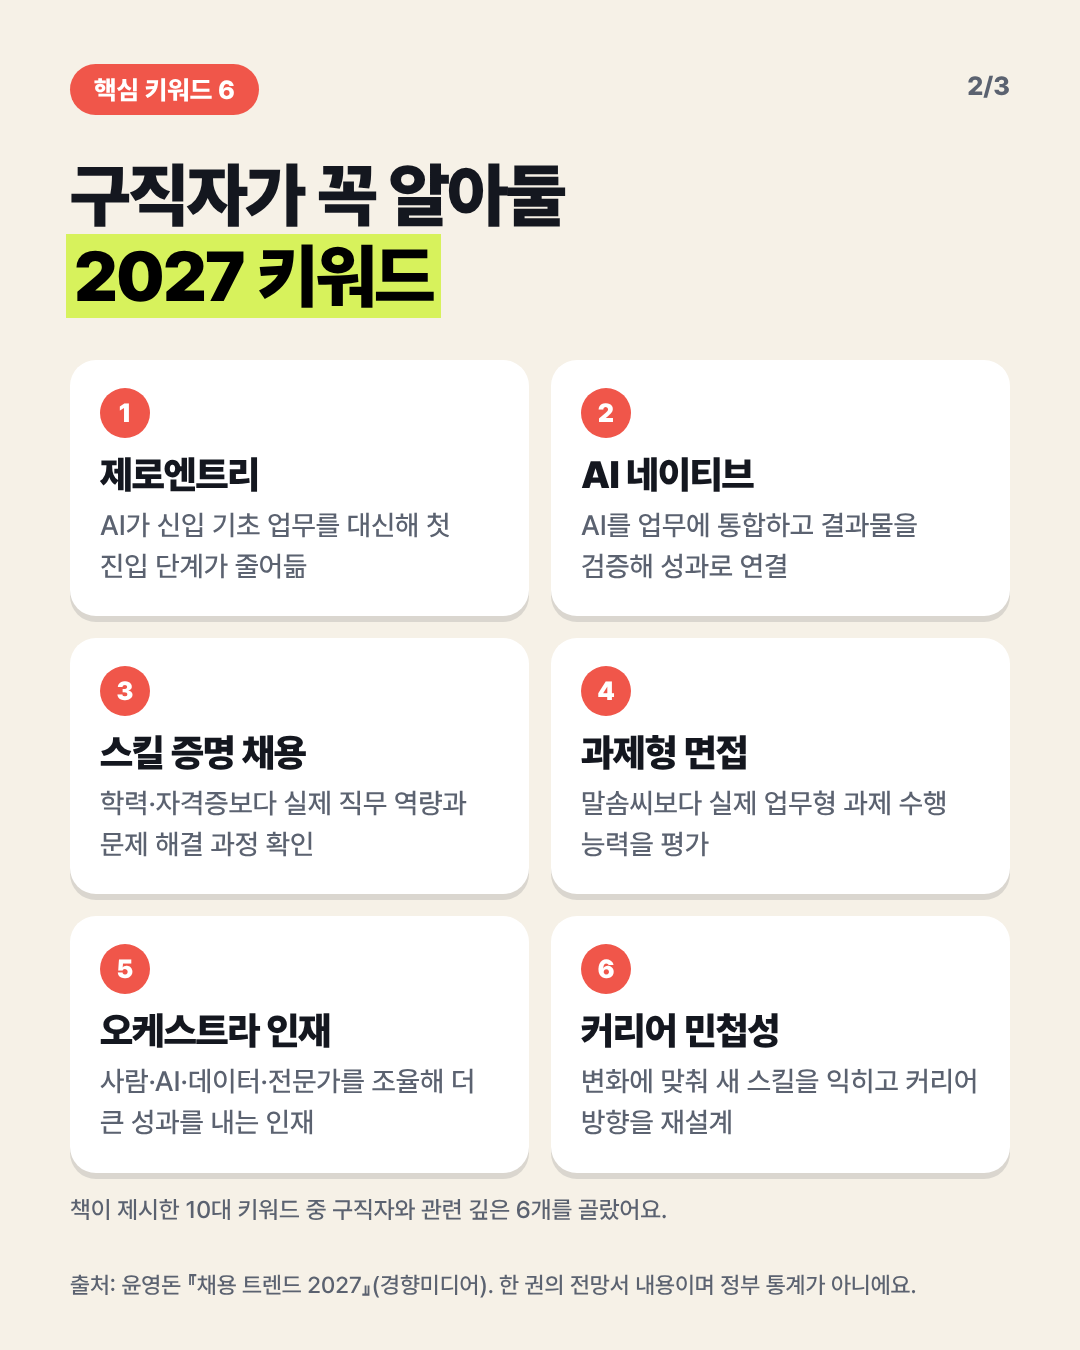
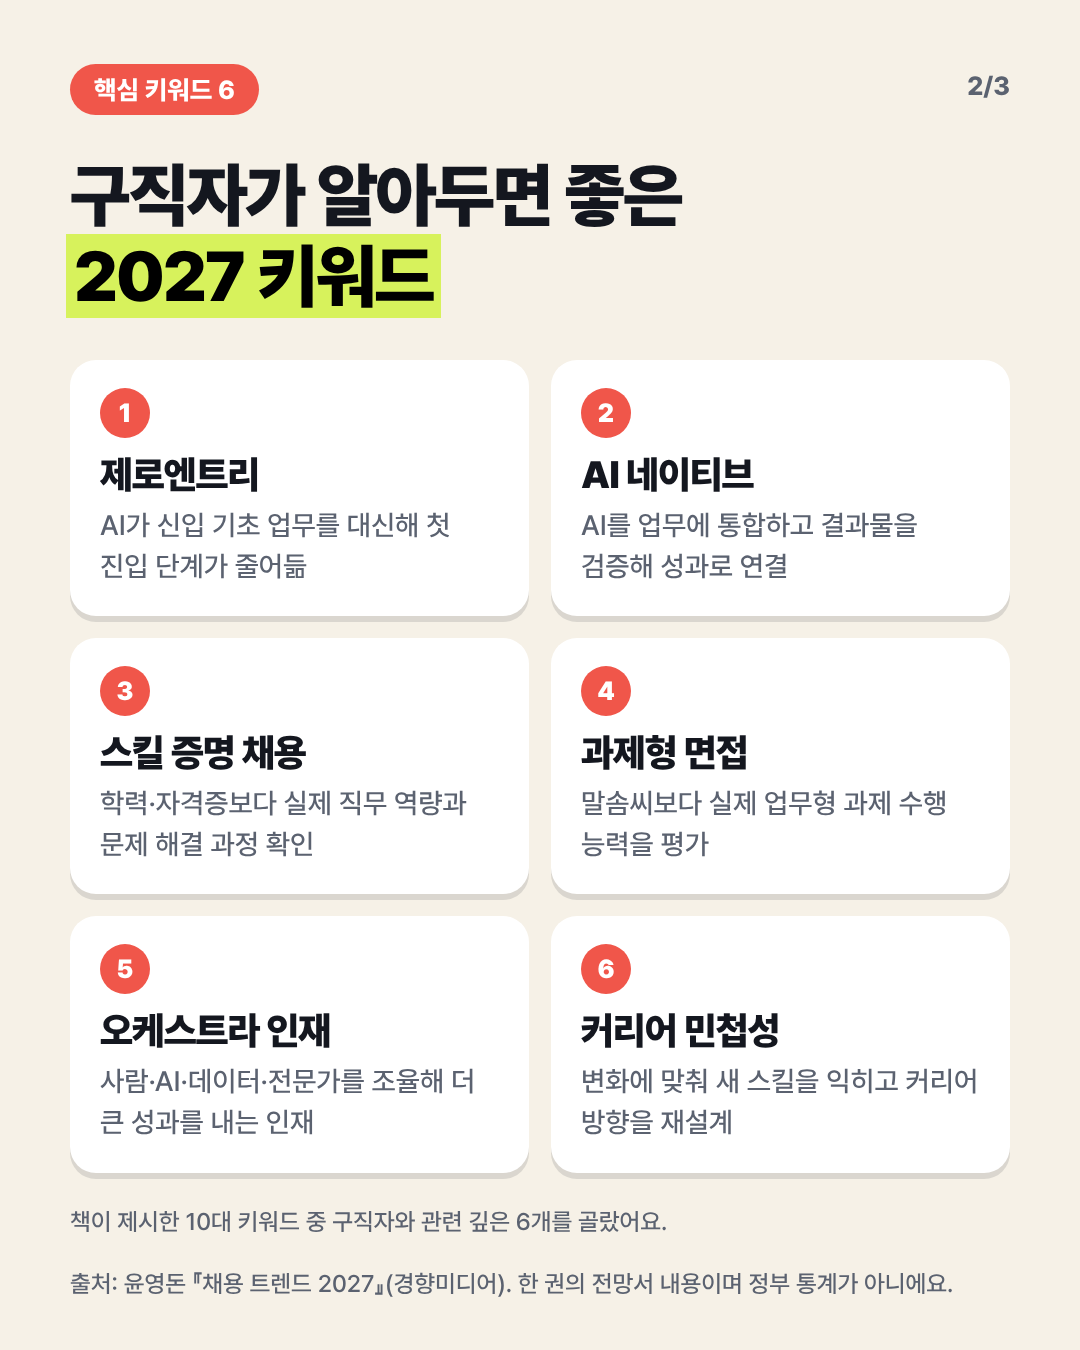
카드뉴스 검수 반영: 출처 귀속·코치 해석 표시·문구 보완
Claude-Session: https://claude.ai/code/session_01HCQhJp9fK9QrXzRY9SMg4y

Changed region(s): [[0.0611, 0.8711, 0.8861, 0.9644], [0.275, 0.1244, 0.6417, 0.1867]]

diff --git a/office/20261119_채용트렌드2027_카드뉴스/cards.html b/office/20261119_채용트렌드2027_카드뉴스/cards.html
@@ -24,7 +24,7 @@ h2 mark{background:var(--lime);padding:0 8px;margin:0 -4px}
 .lead{font-size:38px;line-height:1.5;font-weight:500;margin-top:56px;color:#d9dce3}
 .lead b{color:var(--lime);font-weight:800}
 .box{margin-top:60px;border:3px solid var(--lime);border-radius:28px;padding:34px 40px;font-size:34px;line-height:1.5;font-weight:700}
-.box small{display:block;font-size:26px;color:#9aa0ab;font-weight:500;margin-top:10px}
+.box small{display:block;font-size:27px;color:#c9cdd6;font-weight:500;margin-top:10px}
 .grid{display:grid;grid-template-columns:1fr 1fr;gap:22px;margin-top:44px}
 .k{background:#fff;border-radius:26px;padding:28px 30px 30px;box-shadow:0 6px 0 rgba(20,23,31,.12)}
 .k i{font-style:normal;display:inline-block;width:50px;height:50px;line-height:50px;text-align:center;border-radius:50%;background:var(--coral);color:#fff;font-weight:900;font-size:26px}
@@ -36,23 +36,23 @@ h2 mark{background:var(--lime);padding:0 8px;margin:0 -4px}
 .step p{font-size:30px;line-height:1.45;color:var(--sub);margin-top:8px;font-weight:500}
 .cta{margin-top:40px;background:var(--coral);color:#fff;border-radius:28px;padding:30px 36px;font-weight:900;font-size:42px;line-height:1.3}
 .cta small{display:block;font-size:28px;font-weight:700;margin-top:6px;opacity:.95}
-.foot{position:absolute;left:70px;right:70px;bottom:48px;font-size:23px;line-height:1.5;color:var(--sub);font-weight:500}
+.foot{position:absolute;left:70px;right:70px;bottom:48px;font-size:24px;line-height:1.5;color:var(--sub);font-weight:500}
 .dark .foot{color:#9aa0ab}
 .foot b{color:var(--ink);font-weight:800}.dark .foot b{color:#fff}
-.note{font-size:24px;color:var(--sub);margin-top:22px;font-weight:500}
+.note{font-size:24px;color:var(--sub);margin-top:34px;font-weight:500}
 </style></head><body>
 
 <section class="card dark" id="c1">
   <span class="lab">채용 트렌드 2027 요약</span><span class="pg">1/3</span>
   <h1>2027 채용은<br>'선발'이 아니라<br><em>'영입'</em>의 시대</h1>
   <p class="lead">AI 에이전트가 <b>신입의 기초 업무</b>를 대신하면서<br>경력의 <b>첫 계단이 사라지는</b> 현상,<br>'제로엔트리'가 핵심 화두예요.</p>
-  <div class="box">기업은 가능성만 보고 뽑아 키우기보다<br>즉시 성과를 낼 인재를 찾는 쪽으로 움직여요.<small>→ 구직자는 '조직이 영입하고 싶은 사람'임을 증명해야 합니다</small></div>
-  <div class="foot"><b>@career_catcher_ek</b> · 커리어캐쳐(CareerCatcher)<br>출처: 윤영돈 『채용 트렌드 2027』(경향미디어, 2026.10) 및 관련 기사</div>
+  <div class="box">책은 기업이 가능성만 보고 뽑아 키우기보다<br>즉시 성과를 낼 인재를 선호한다고 짚어요.<small>(코치 해석) 구직자는 '함께하고 싶은 사람'임을 보여 줄 준비가 필요해요</small></div>
+  <div class="foot"><b>@career_catcher_ek</b> · 커리어캐쳐(CareerCatcher)<br>출처: 윤영돈 『채용 트렌드 2027』(경향미디어, 2026.10.28) 소개 기사(ZDNet Korea, 한국사회복지저널)</div>
 </section>
 
 <section class="card" id="c2">
   <span class="lab">핵심 키워드 6</span><span class="pg">2/3</span>
-  <h2>구직자가 꼭 알아둘<br><mark>2027 키워드</mark></h2>
+  <h2>구직자가 알아두면 좋은<br><mark>2027 키워드</mark></h2>
   <div class="grid">
     <div class="k"><i>1</i><b>제로엔트리</b><p>AI가 신입 기초 업무를 대신해 첫 진입 단계가 줄어듦</p></div>
     <div class="k"><i>2</i><b>AI 네이티브</b><p>AI를 업무에 통합하고 결과물을 검증해 성과로 연결</p></div>
@@ -66,12 +66,12 @@ h2 mark{background:var(--lime);padding:0 8px;margin:0 -4px}
 </section>
 
 <section class="card pink" id="c3">
-  <span class="lab">그래서 이렇게 준비해요</span><span class="pg">3/3</span>
+  <span class="lab">코치의 준비 제안</span><span class="pg">3/3</span>
   <h2>지금 시작하는<br><mark>준비 3가지</mark></h2>
   <div class="step"><i>1</i><div><b>스펙 대신 '성과'를 정리</b><p>해낸 일과 결과를 경험노트로 모아 두세요</p></div></div>
-  <div class="step"><i>2</i><div><b>AI 쓴 과정을 말할 수 있게</b><p>어디에 썼고, 결과를 어떻게 검증했는지 설명해요</p></div></div>
+  <div class="step"><i>2</i><div><b>AI를 쓴 과정을 말할 수 있게</b><p>어디에 썼고, 결과를 어떻게 검증했는지 설명해요</p></div></div>
   <div class="step"><i>3</i><div><b>과제형 면접 대비</b><p>문제 → 과정 → 결정 순서로 말하는 연습을 해요</p></div></div>
   <div class="cta">저장해 두고 이력서 쓸 때 꺼내 보세요<small>@career_catcher_ek 팔로우 · 궁금한 점은 댓글로!</small></div>
-  <div class="foot">* 준비 3가지는 위 키워드를 바탕으로 한 커리어캐쳐 코치의 정리예요.<br>담당 안은경 | 커리어캐쳐(CareerCatcher)</div>
+  <div class="foot">* 책에 나온 내용이 아니라, 위 키워드를 바탕으로 한 커리어캐쳐 코치의 제안이에요.<br>담당 안은경 | 커리어캐쳐(CareerCatcher)</div>
 </section>
 </body></html>

diff --git a/office/20261119_채용트렌드2027_카드뉴스/review.md b/office/20261119_채용트렌드2027_카드뉴스/review.md
@@ -1,0 +1,68 @@
+# 검수 결과 (채용 트렌드 2027 카드뉴스 3장)
+
+**종합 판정: 수정 필요** (필수 수정 2건: 출처 대조 미완료, 1번 카드 코치 해석 미표시)
+
+## 검수 한계
+- 이 검수 환경에서는 웹 조회 도구를 쓸 수 없어 두 기사 원문과 카드 문구를 직접 대조하지 못했다. 저장소 안에도 기사 원문, 리서치 메모가 없다. 키워드 6개 정의, "10대 키워드", "선발 대신 영입"은 이 저장소에서 근거를 찾을 수 없다.
+- 그래서 사실 항목은 "기사와 다르다"고 단정하지 않고, 기사 대조가 필요한 문장과 위험도를 표시했다.
+- 이미지, 문장, 톤, 표기는 파일을 직접 열어 확인했다.
+
+## 항목별 판정표
+
+| # | 항목 | 판정 | 요약 |
+|---|---|---|---|
+| 1 | 사실·출처 대조 | 수정 필요 | 기사 대조 미완료, 1번 카드에 코치 해석이 책 주장처럼 섞임 |
+| 2 | 3번 카드 코치 해석 표시 | 수정 권장 | 표시는 있으나 하단 작은 각주뿐이라 눈에 잘 안 띔 |
+| 3 | 문장·맞춤법·톤·표기 | 수정 권장 | 해요체 중 한 문장이 합니다체, 어색한 조사 생략 |
+| 4 | 이미지(card1~3.png) | 통과 | 글자 잘림·겹침 없음, 가독성 양호. 작은 글씨만 주의 |
+
+## 1. 사실·출처 대조: 수정 필요
+
+| 위치 | 문구 | 판정 | 내용과 수정안 |
+|---|---|---|---|
+| 1번 카드 | "2027 채용은 '선발'이 아니라 '영입'의 시대" | [필수 수정] 확인 필요 | 기사에 '선발→영입' 표현이 있는지 확인해야 한다. 기사에 없으면 코치의 요약 카피다. 있으면 "책은 ~라고 짚어요"로 책의 주장임을 드러낸다. 안: "책이 말하는 2027 채용, '선발'보다 '영입'" |
+| 1번 카드 | "AI 에이전트가 신입의 기초 업무를 대신하면서 경력의 첫 계단이 사라지는 현상, '제로엔트리'가 핵심 화두" | [권장] | 기사 확인 후 "책에 따르면"을 붙인다. "핵심 화두"는 책의 10개 중 하나인 키워드를 대표로 올린 것이므로 "책이 짚은 화두 중 하나"가 안전하다. |
+| 1번 카드 박스 | "기업은 가능성만 보고 뽑아 키우기보다 즉시 성과를 낼 인재를 찾는 쪽으로 움직여요." | [필수 수정] | '기업은'이 모든 기업으로 읽혀 일반화 위험이 크다. 기사에 이 취지가 없으면 근거 없는 단정이다. 수정안: "책은 기업이 가능성보다 즉시 성과를 낼 인재를 찾는 쪽으로 움직인다고 전망해요." |
+| 1번 카드 박스 소문구 | "→ 구직자는 '조직이 영입하고 싶은 사람'임을 증명해야 합니다" | [필수 수정] | 책 내용이 아니라 코치 해석인데 표시가 없다. 단정("해야 합니다")이고 톤도 어긋난다. 수정안: "→ (코치 해석) 구직자는 '함께하고 싶은 사람'임을 보여 줄 준비가 필요해요" |
+| 1번 카드 푸터 | "(경향미디어, 2026.10) 및 관련 기사" | [권장] | README는 2026.10.28 출간이다. 날짜를 맞춘다. 안: "출처: 윤영돈 『채용 트렌드 2027』(경향미디어, 2026.10.28) 소개 기사(ZDNet Korea 2026.11.02 외)". "관련 기사"는 무엇인지 모호하다. |
+| 2번 카드 | 키워드 6개의 정의 문장 | [확인 필요] | 정의 6개가 기사 표현과 맞는지 대조해야 한다. 특히 3번 "학력·자격증보다", 4번 "말솜씨보다"는 비교 표현이다. 기사에 '대신/보다'가 없으면 과잉 해석이다. 기사에 없으면 "~도 함께 본다"로 완화한다. |
+| 2번 카드 | "책이 제시한 10대 키워드 중 … 6개를 골랐어요" | [확인 필요] | '10대'가 기사에 명시됐는지 확인한다. 기사에 6개가 모두 소개됐는지도 확인한다. 소개되지 않은 키워드가 있으면 근거가 없다. 기사에 나온 것만 쓴다. |
+| 2번 카드 | "구직자가 꼭 알아둘 2027 키워드" | [권장] | "꼭"은 과한 단정이다. 안: "구직자가 알아두면 좋은 2027 키워드" |
+| 2번 카드 푸터 | "한 권의 전망서 내용이며 정부 통계가 아니에요" | 통과 | 한계 고지가 적절하다. |
+| 전체 | 기사 링크 | [권장] | 카드에는 URL이 없다. 캡션이나 게시 글에 두 기사 URL을 넣는다. |
+
+## 2. 3번 카드 '준비 3가지' 코치 해석 표시: 수정 권장
+
+- 현재: 하단 23px 회색 각주 "* 준비 3가지는 위 키워드를 바탕으로 한 커리어캐쳐 코치의 정리예요."
+- 문제: 문구는 정확하지만 카드에서 가장 작고 연한 글씨라 놓치기 쉽다. 라벨 "그래서 이렇게 준비해요"의 '그래서'가 책의 결론처럼 읽힌다.
+- 수정안
+  1. 라벨을 "코치의 준비 제안"으로 바꾼다. 또는 제목 위에 "코치 해석" 칩을 추가한다.
+  2. 각주는 유지하고 한 줄 강조한다. 안: "※ 책 내용이 아니라 커리어캐쳐 코치의 해석이에요."
+- 내용: 3가지 모두 기사 키워드(스킬 증명, AI 네이티브, 과제형 면접)와 연결되어 논리상 문제는 없다. 다만 '경험노트', '문제→과정→결정'은 코치의 방법론이라 위 표시가 더 필요하다.
+
+## 3. 문장·맞춤법·톤·표기: 수정 권장
+
+| 위치 | 문구 | 판정 | 수정안 |
+|---|---|---|---|
+| 1번 박스 | "증명해야 합니다" | [권장] | 해요체 통일. 위 1번 항목 수정안 참고 |
+| 3번 카드 | "AI 쓴 과정을 말할 수 있게" | [권장] | 조사 생략이 구어체다. "AI를 쓴 과정을 말할 수 있게" |
+| 3번 카드 | "문제 → 과정 → 결정 순서로 말하는 연습을 해요" | [권장] | 문장 안에서 어색하다. "문제, 과정, 결정 순서로 말하는 연습을 해요" |
+| 2번 카드 | 정의 문장이 명사형 종결("줄어듦", "확인", "평가", "연결") | [권장] | 카드 항목 설명이라 허용 범위지만 해요체 톤과 섞인다. "줄어들어요" 등으로 통일하거나 의도적으로 두고 문서에 명시한다. |
+| 맞춤법 | 전체 | 통과 | 오탈자, 띄어쓰기 오류 없음. '모아 두세요', '말솜씨' 등 정상 |
+| 개인정보 | 전체 | 통과 | 아이 실명, 학교, 얼굴 사진 없음 |
+| 브랜드 표기 | @career_catcher_ek, 커리어캐쳐(CareerCatcher) | 통과 | 1·3번 카드에 정확히 표기됐다. 2번 카드는 계정 표기가 없으나 연작이라 문제 없다. |
+| 담당자 표기 | 3번 "담당 안은경" | [확인] | 실명 노출이 계정 운영 방침에 맞는지 대표에게 확인한다. 개인정보 규칙은 '아이' 정보 한정이라 위반은 아니다. |
+
+## 4. 이미지: 통과
+
+- card1.png: 제목 3줄, 리드, 박스 모두 잘림·겹침 없음. 하단 여백이 크지만(박스~푸터 약 180px) 표지로 무리 없음. 박스 소문구 26px 회색은 다크 배경에서 대비가 낮다. [권장] 색을 `#c7ccd6` 정도로 밝힌다.
+- card2.png: 6개 카드 모두 설명이 2줄 안에 들어가 잘림 없음. 그리드 하단과 안내문(24px) 간격이 좁다(약 30px). [권장] `.note` margin-top을 32px 안팎으로 늘린다. 푸터와 안내문은 작은 글씨라 모바일에서 읽기 어려울 수 있다.
+- card3.png: 3단계, CTA 모두 정상. 하단 각주가 작다(2번 항목 참고). 다른 요소와 겹침 없음.
+- 세 장 모두 색·서체·여백이 일관된다.
+
+## 수정 우선순위
+1. [필수] 두 기사 원문과 대조해 1번 카드 박스 문구, 제목, 2번 카드 정의 6개를 확인한다. 기사에 없는 표현은 삭제하거나 "책은 ~라고 전망해요"로 바꾼다.
+2. [필수] 1번 카드의 "구직자는 … 증명해야 합니다"를 코치 해석으로 표시하고 해요체로 바꾼다.
+3. [권장] 3번 카드 코치 해석 표시를 라벨이나 칩으로 키운다.
+4. [권장] 출처 날짜를 2026.10.28로 맞추고 기사 URL을 게시 글에 넣는다.
+5. [권장] 조사, 어미 통일과 작은 글씨 대비를 조정한다.

diff --git a/office/20261119_채용트렌드2027_카드뉴스/README.md b/office/20261119_채용트렌드2027_카드뉴스/README.md
@@ -4,3 +4,8 @@
   https://zdnet.co.kr/view/?no=20261102102054 / https://www.ksw-news.com/news/articleView.html?idxno=3053312
 - 주의: 한 권의 전망서 내용이며 정부 통계가 아니다. 책의 10대 키워드 중 6개만 골랐다. 3번 카드의 준비 3가지는 코치 정리(해석)로 표시했다.
 - 해외 자료(Kelly, Korn Ferry 등)는 미국 중심이라 넣지 않았다.
+
+## 검수 반영 (2026-11-19, review.md)
+- 1장 박스: '책은 …선호한다고 짚어요'로 출처 귀속, 코치 해석 표시. 2장 제목 완화. 3장 라벨 '코치의 준비 제안', 각주 강화, '(AI를) 쓴' 조사 보완. 푸터 날짜·출처 구체화.
+- 검수팀은 웹 조회가 안 돼 기사 대조를 못 했다. 기사 대조(영입·제로엔트리·키워드 정의)는 작성 단계에서 두 기사를 직접 읽어 확인했다.
+- '담당 안은경' 표기는 기존 포스터와 같은 방식으로 유지(필요 없으면 알려 주세요).
